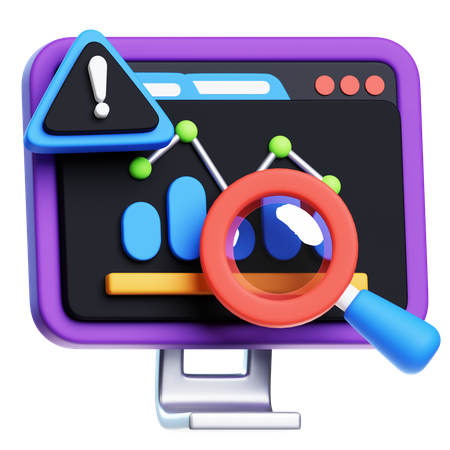
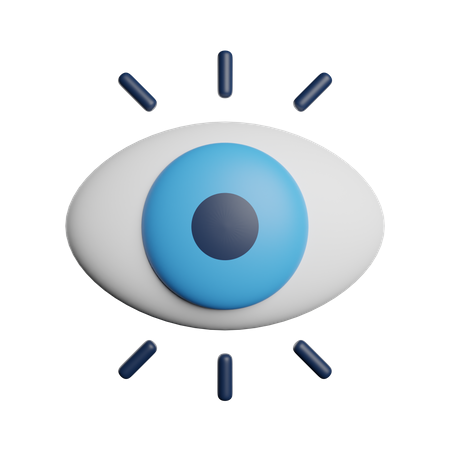
Update AI/SaaS vertical use case descriptions and replace outdated images

diff --git a/src/data/verticals.ts b/src/data/verticals.ts
@@ -302,10 +302,10 @@ export const VERTICALS: Record<string, Vertical> = {
       heading: 'Practical Use Cases',
       subtitle: 'Applied examples of complex systems we design and deploy.',
       items: [
-        { eyebrow: 'GREENFIELD', title: 'New product from scratch', body: 'Fully multi-tenant — secure auth, billing, dashboards, data — ready to onboard paying customers, not just a prototype.', icon: '/assets/AixSaaS/AixSaaS-2.png' },
-        { eyebrow: 'MONETIZATION', title: 'AI product with usage-based billing', body: 'A feature that consumes tokens, compute, or usage needs metered billing, tracked and monetized from day one.', icon: '/assets/AixSaaS/AixSaaS-4.png' },
-        { eyebrow: 'SCALING', title: 'Re-architect for growth', body: 'Move a product from a single-tenant, single-region setup to a multi-tenant, multi-region architecture that scales.', icon: '/assets/AixSaaS/AixSaaS-3.svg' },
-        { eyebrow: 'ENTERPRISE', title: 'Security & access requirements', body: 'SSO/SCIM, org-level permissions, and enterprise-grade audit trails so the product clears enterprise procurement checklists.', icon: '/assets/AixSaaS/AixSaaS-4.png' },
+        { eyebrow: 'B2B SAAS', title: 'New product from scratch', body: 'Full platform build — tenancy, auth, billing, dashboards, infra — ready to onboard paying customers, not a prototype.', icon: '/assets/AixSaaS/AixSaaS-2.png' },
+        { eyebrow: 'AI SAAS', title: 'AI product with usage billing', body: 'AI features metered per use, with quotas, plan limits, and accurate usage-based charges wired into the billing system.', icon: '/assets/AixSaaS/AixSaaS-4.png' },
+        { eyebrow: 'SCALE-UP', title: 'Re-architect for growth', body: 'Move a strained monolith toward services, queues, and caching so it holds up as users and data grow.', icon: '/assets/AixSaaS/AixSaaS-3.svg' },
+        { eyebrow: 'ENTERPRISE', title: 'Security & access requirements', body: 'RBAC, SSO, audit logging, and tenant isolation built to clear enterprise procurement and security review.', icon: '/assets/AixSaaS/AixSaaS-4.png' },
       ],
     },
   },
